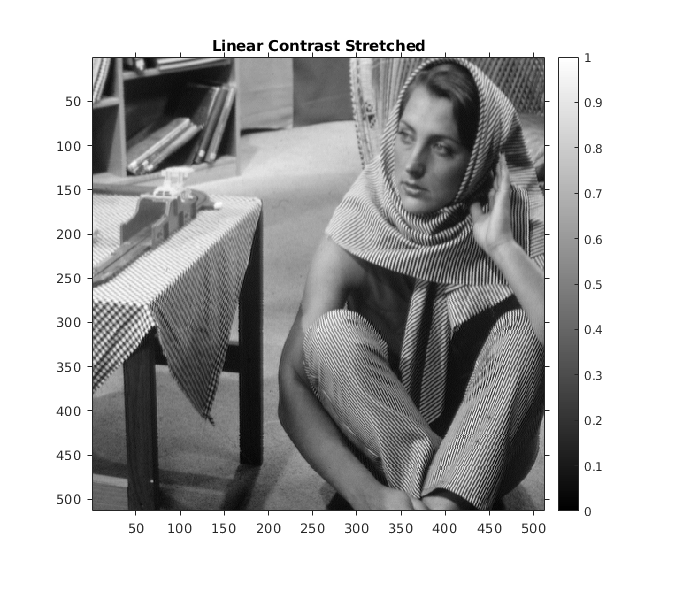
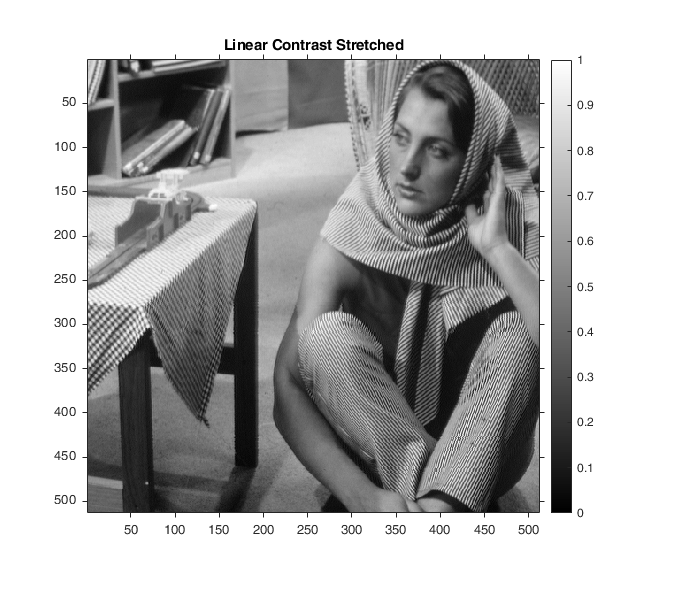
minor changes

diff --git a/assignment1/2/code/myHM.m b/assignment1/2/code/myHM.m
@@ -1,28 +1,43 @@
 %% function file for myShrinkImageByFactorD 
-function contrastImg = myHM(input,inputMask,inputRef,inputRefMask)
-	[len,width,c] = size(input);
+function contrastImg = myHM(myInput,myInputMask,myInputRef,myInputRefMask)
+	[len,mywidth,c] = size(myInput);
 	
-	contrastImg = zeros(len,width,c);
+	contrastImg = zeros(len,mywidth,c);
     % Doing the process for each channel
 	for k=1:c 
-	   % Finding the cdf for input image
-	   counts = imhist(input(:,:,k).*uint8(inputMask));
+	   % Finding the mycdf for myInput image
+	   counts = imhist(myInput(:,:,k).*uint8(myInputMask));
        % Removing the zeros introduced by the binary mask
-	   counts(1) = counts(1) - sum(inputMask(:)==0);
-	   cdf = cumsum(counts)*1.0/sum(counts);
-       % Applying cdf on the input image
-	   semiContrastImg = cdf(input(:,:,k)+1)*255;
+	   counts(1) = counts(1) - sum(myInputMask(:)==0);
+	   mycdf = cumsum(counts)*1.0/sum(counts);
+       % Applying mycdf on the myInput image
 
-       % Finding the cdf for reference image
-	   countsRef = imhist(inputRef(:,:,k).*uint8(inputRefMask));
-	   countsRef(1) = countsRef(1) - sum(inputRefMask(:)==0);
-	   cdfRef = cumsum(countsRef)*1.0/sum(countsRef);
-       % Computing the inverse of the cdf of refernce image
-	   inverseCdf = quantile(cdfRef,0:(1.0/255):1);
+       N = 1000;
+	   semiContrastImg = round(mycdf(myInput(:,:,k)+1)*N);
 
-       % Applying the inverse cdf on the equalized image
-	   contrastImg(:,:,k) = inverseCdf(round(semiContrastImg)+1)*255;
-	   contrastImg(:,:,k) = contrastImg(:,:,k).*inputMask;
+       % Finding the mycdf for reference image
+	   countsRef = imhist(myInputRef(:,:,k).*uint8(myInputRefMask));
+	   countsRef(1) = countsRef(1) - sum(myInputRefMask(:)==0);
+	   size(countsRef)
+	   mycdfRef = cumsum(countsRef)*1.0/sum(countsRef);
+       % Computing the inverse of the mycdf of refernce image
+% 	   inversemyCdf = quantile(countsRef,0:(1.0/N):1);
+        
+       inversemyCdf = zeros(N+1);
+       ind = 1;
+       for val=0:N
+           while ind ~= 257
+              if(mycdfRef(ind)>=val*1.0/N)
+                  inversemyCdf(val+1) = ind;
+                  break;
+              end
+              ind = ind+1;
+           end
+       end
+
+       % Applying the inverse mycdf on the equalized image
+	   contrastImg(:,:,k) = inversemyCdf(semiContrastImg+1);
+ 	   contrastImg(:,:,k) = contrastImg(:,:,k).*myInputMask;
 	end
 end
 

diff --git a/assignment1/2/code/abc.m b/assignment1/2/code/abc.m
@@ -1,0 +1,18 @@
+%% MyMainScript
+
+tic;
+img1 = imread('../data/barbara.png');
+img2 = imread('../data/TEM.png');
+img3 = imread('../data/canyon.png');
+img4 = imread('../data/retina.png');
+img4ref = imread('../data/retinaRef.png');
+img4m = imread('../data/retinaMask.png');
+img4refm = imread('../data/retinaRefMask.png');
+img5 = imread('../data/church.png');
+
+%% myHM
+myDisplayImageColor(img4,'OriginalImage');
+img4cm = myHM(img4, img4m, img4ref, img4refm);
+myDisplayImageColor(img4cm,'Histogram Matched Image');
+img4ce = myHE(img4);
+myDisplayImageColor(img4ce,'Histogram Matched Image');

diff --git a/assignment1/2/code/myMainScript.m b/assignment1/2/code/myMainScript.m
@@ -45,14 +45,14 @@ myDisplayImageColor(img5,'Original Image');
 img5b = myHE(img5);
 myDisplayImageColor(img5b,'Histogram Equalised Image');
 
-%%myHM
+%% myHM
 myDisplayImageColor(img4,'OriginalImage');
 img4cm = myHM(img4, img4m, img4ref, img4refm);
 myDisplayImageColor(img4cm,'Histogram Matched Image');
 img4ce = myHE(img4);
 myDisplayImageColor(img4ce,'Histogram Equalised Image');
 
-%%myAHE
+%% myAHE
 myDisplayImageGrey(img1,'Original Image');
 img1d = myAHE(img1,121);
 myDisplayImageGrey(img1d,'AHE window size = 121');
